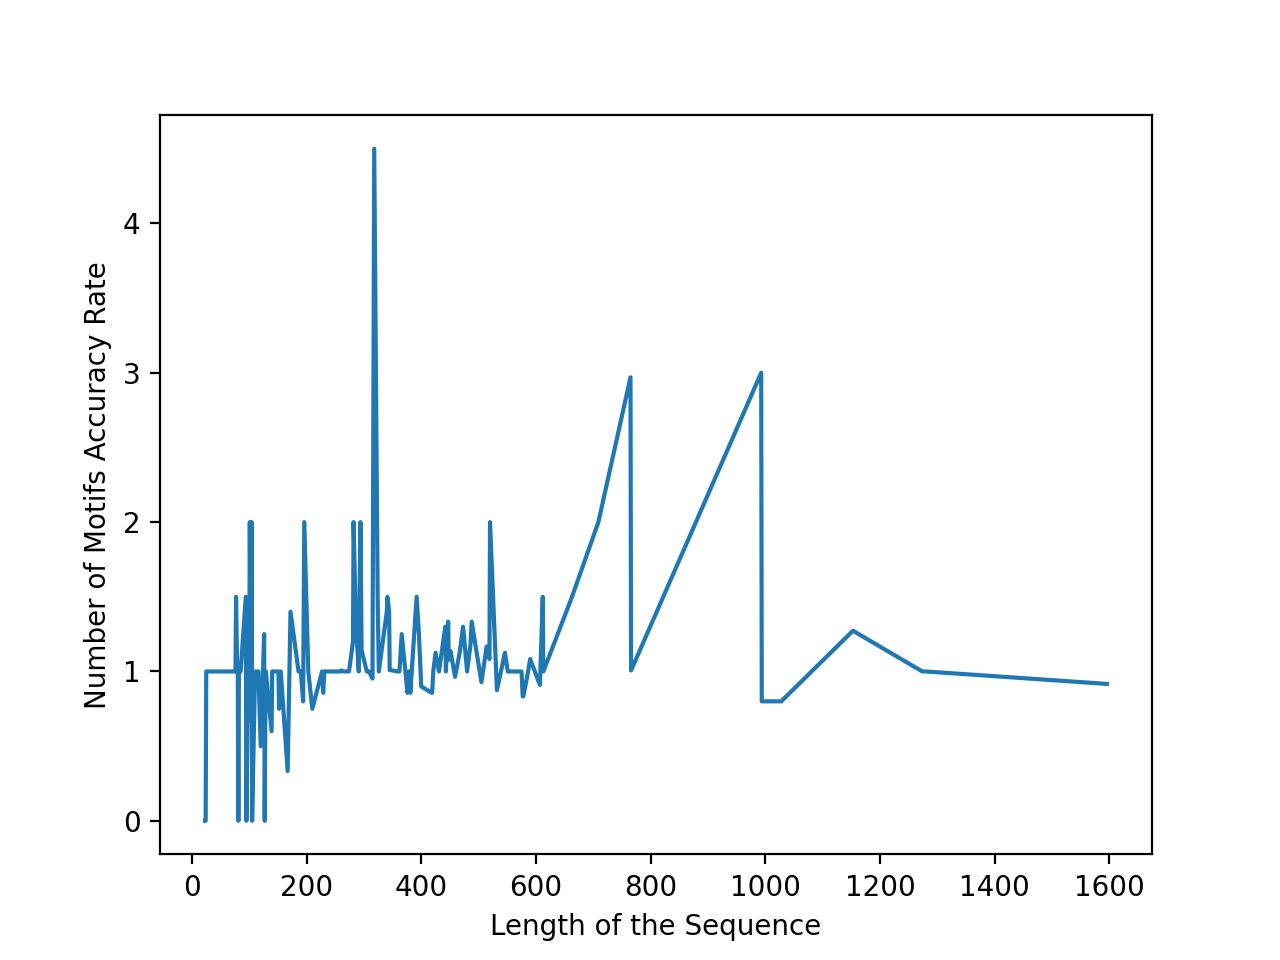
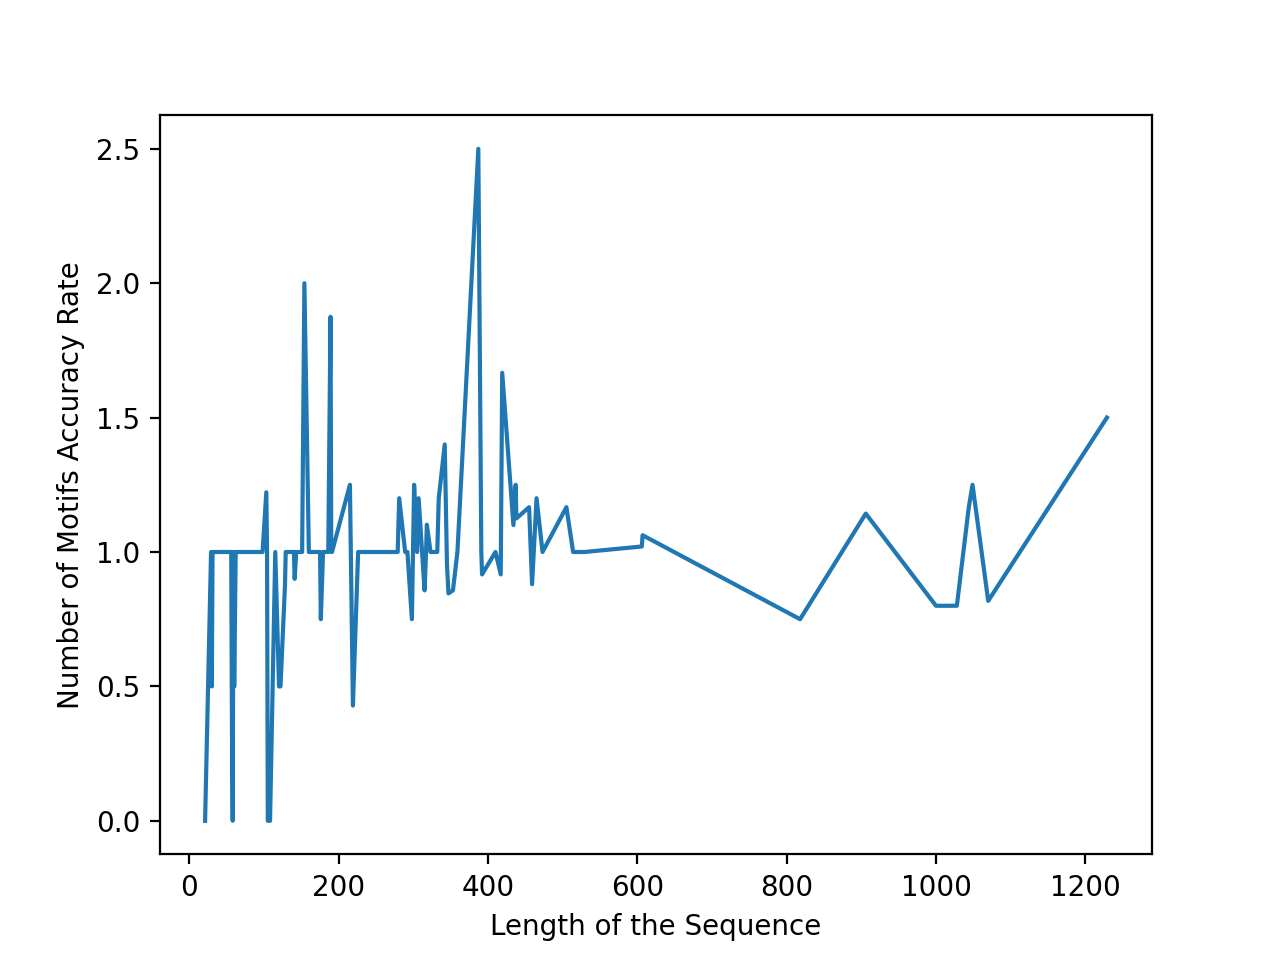
added graphs

diff --git a/accuracy_graph.py b/accuracy_graph.py
@@ -29,7 +29,7 @@ print("number of test samples: " + str(num_test_samples))
 
 states = np.array([state.name for state in model.states])
 indices = np.arange(0, len(observation))
-test_indices = indices[:num_test_samples]
+test_indices = indices[-num_test_samples:]
 
 length_to_score = defaultdict(list)
 
@@ -56,30 +56,30 @@ accs = []
 trans = []
 accs2 = []
 
-for l in sorted(length_to_score.keys()):
-    lengths.append(l)
-    accs.append(sum(length_to_score[l])/len(length_to_score[l]))
+# for l in sorted(length_to_score.keys()):
+#     lengths.append(l)
+#     accs.append(sum(length_to_score[l])/len(length_to_score[l]))
 
-# for n in sorted(num_of_trans_membrane_to_acc.keys()):
-#     trans.append(n)
-#     accs2.append(sum(num_of_trans_membrane_to_acc[n])/len(num_of_trans_membrane_to_acc[n]))
+for n in sorted(num_of_trans_membrane_to_acc.keys()):
+    trans.append(n)
+    accs2.append(sum(num_of_trans_membrane_to_acc[n])/len(num_of_trans_membrane_to_acc[n]))
 
 lengths= np.array(lengths)
-plt.plot(lengths, accs)
+# plt.plot(lengths, accs)
 
 # m, b = np.polyfit(lengths, accs, 1)
 
 # plt.plot(lengths, m*lengths + b)
 # plt.title('Number of Motifs Accuracy Rate by Length of the Sequence')
-plt.xlabel('Length of the Sequence')
-plt.ylabel('Number of Motifs Accuracy Rate')
-plt.show()
+# plt.xlabel('Length of the Sequence')
+# plt.ylabel('Number of Motifs Accuracy Rate')
+# plt.show()
 
-# trans= np.array(trans)
-# plt.plot(trans, accs2)
+trans= np.array(trans)
+plt.plot(trans, accs2)
 #
 #
 # # plt.title('Number of motifs accuracy rate by number of motifs')
-# plt.xlabel('Number of Motifs')
-# plt.ylabel('Number of Motifs Accuracy Rate')
-# plt.show()
+plt.xlabel('Number of Motifs')
+plt.ylabel('Number of Motifs Accuracy Rate')
+plt.show()

diff --git a/seq_alignment_graph.py b/seq_alignment_graph.py
@@ -33,18 +33,18 @@ print("number of training samples: " + str(num_training_samples))
 print("number of test samples: " + str(num_test_samples))
 
 indices = np.arange(0, len(observation))
-test_indices = indices[:num_test_samples]
+test_indices = indices[-num_test_samples:]
 
-# train_indices= indices[num_test_samples:num_training_samples]
+train_indices= indices[num_test_samples:num_training_samples]
 states = np.array([state.name for state in model.states])
-# for index in range(100):
-#   print("(\"",end='')
-#   print(re.sub('\d', '',
-#                ''.join(states[model.predict(observation[train_indices[index]])]).replace('start','').replace('end','').replace('S','').replace('L','')),end='')
-#   print("\",\"",end='')
-#   print(re.sub('\d', '',
-#                ''.join(labels[train_indices[index]]).replace('start','').replace('end','').replace('S','').replace('L','')),end='')
-#   print("\"),")
+for index in range(100):
+  print("(\"",end='')
+  print(re.sub('\d', '',
+               ''.join(states[model.predict(observation[train_indices[index]])]).replace('start','').replace('end','').replace('S','').replace('L','')),end='')
+  print("\",\"",end='')
+  print(re.sub('\d', '',
+               ''.join(labels[train_indices[index]]).replace('start','').replace('end','').replace('S','').replace('L','')),end='')
+  print("\"),")
 
 
 for index in range(len(test_indices)):
